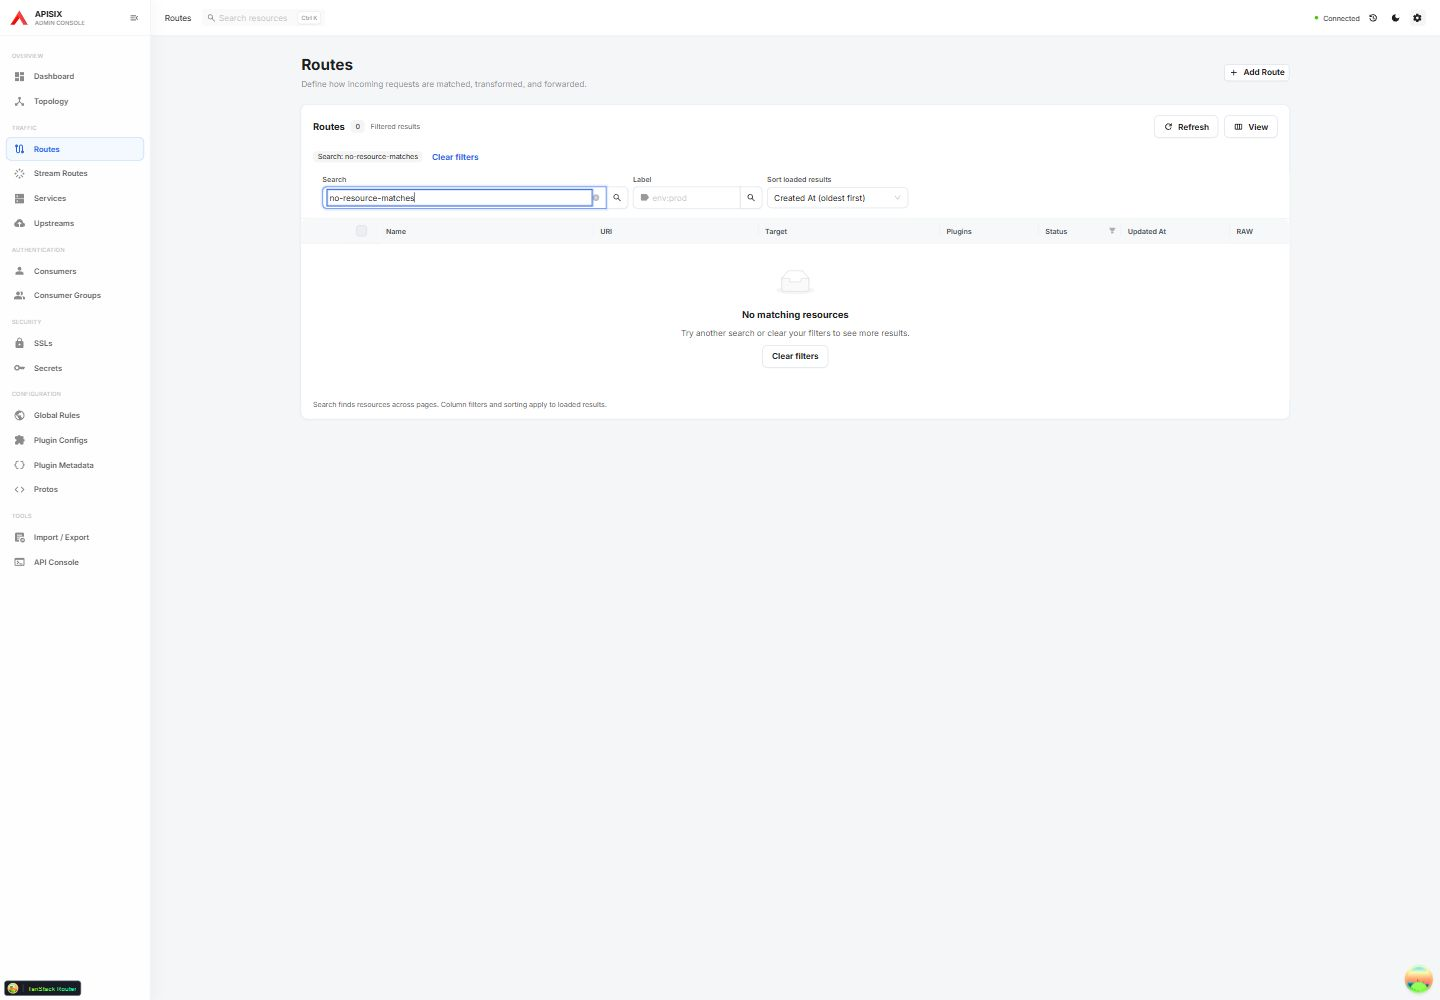
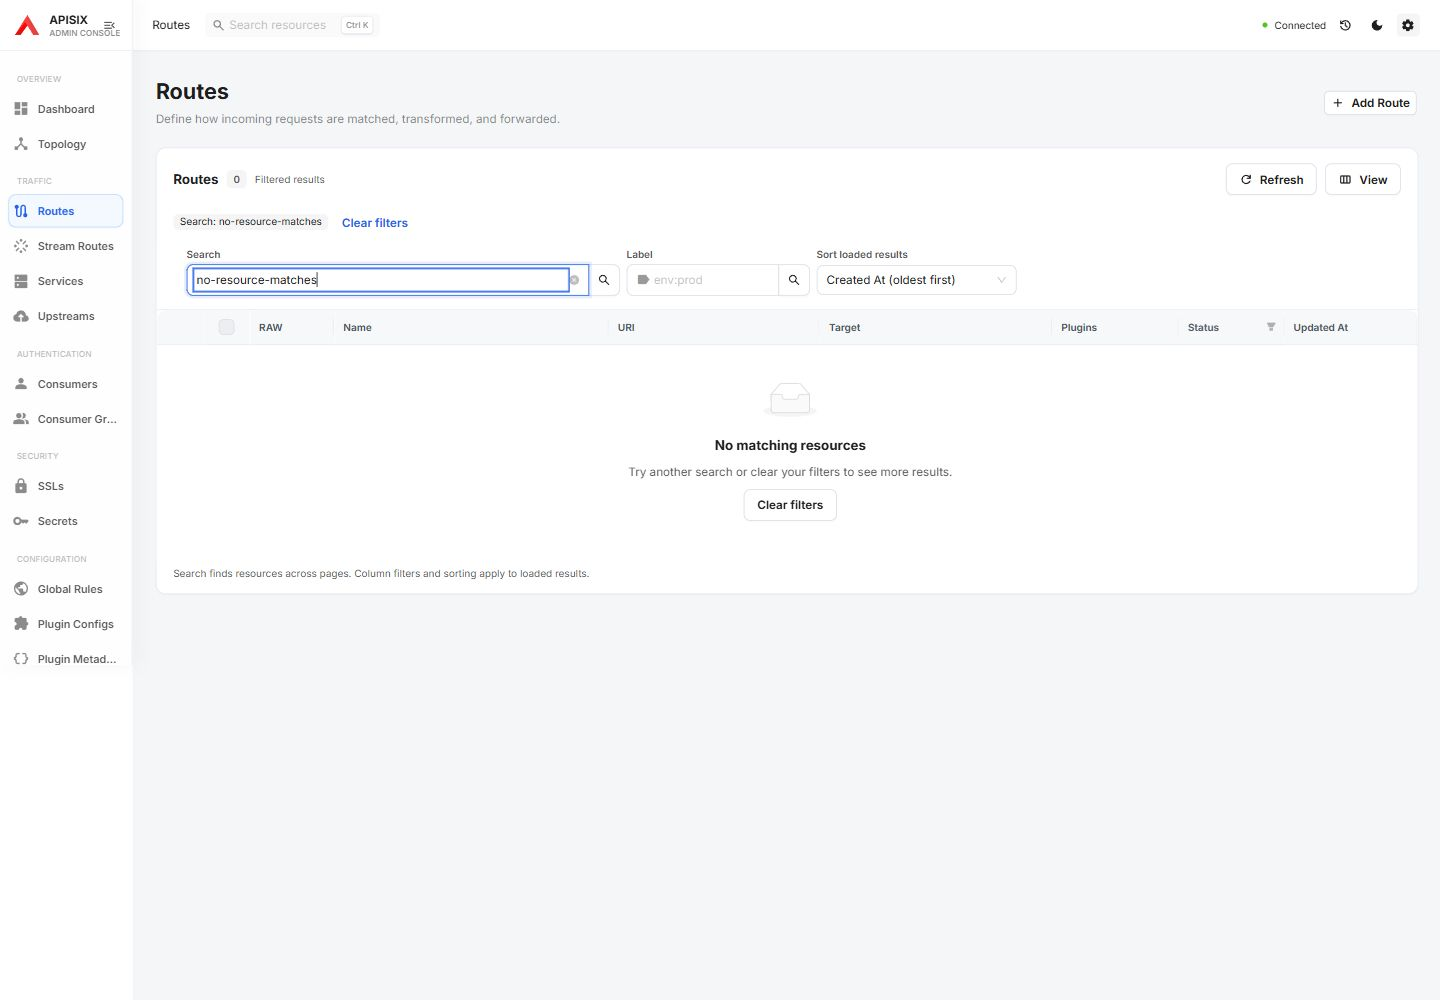
fix: prioritize RAW access and center table expand controls

diff --git a/e2e/tests/table-experience.spec.ts b/e2e/tests/table-experience.spec.ts
@@ -98,7 +98,7 @@ for (const [path, title, primary] of [
   ['plugin_configs', 'Plugin Configs', 'Name'],
   ['protos', 'Protos', 'Name'],
 ]) {
-  test(`${title} uses the shared table controls and puts identity before RAW`, async ({
+  test(`${title} uses the shared table controls and keeps RAW immediately before resource identity`, async ({
     page,
   }) => {
     await mockAdmin(page);
@@ -114,8 +114,8 @@ for (const [path, title, primary] of [
       table.getByRole('button', { name: 'View', exact: true }),
     ).toBeVisible();
     const headers = await table.getByRole('columnheader').allTextContents();
-    expect(headers.indexOf(primary)).toBeLessThan(headers.indexOf('RAW'));
-    expect(headers.at(-1)).toBe('RAW');
+    expect(headers.indexOf(primary)).toBe(headers.indexOf('RAW') + 1);
+
     await expect(
       table.getByRole('columnheader', { name: 'ID', exact: true }),
     ).toHaveCount(primary === 'Name' || primary === 'Username' ? 0 : 1);
@@ -238,7 +238,9 @@ test('selection has one action region and clears when moving between pages', asy
   await actions.getByRole('button', { name: 'Delete', exact: true }).click();
   const confirmation = page.getByRole('dialog', { name: 'Delete 1 Route(s)' });
   await expect(confirmation).toBeVisible();
-  await confirmation.getByRole('button', { name: 'Cancel', exact: true }).click();
+  await confirmation
+    .getByRole('button', { name: 'Cancel', exact: true })
+    .click();
   await expect(actions).toBeVisible();
   await page.getByRole('listitem', { name: '2', exact: true }).click();
   await expect(actions).toHaveCount(0);
@@ -307,13 +309,23 @@ test('narrow tables keep controls inside the viewport and allow keyboard horizon
   await page.setViewportSize({ width: 390, height: 844 });
   await mockAdmin(page);
   await page.goto('routes');
+  await expect(page.getByRole('complementary')).toHaveCSS('width', '68px');
   const scroller = page.getByRole('region', { name: /^Routes columns/ });
   await expect(scroller).toHaveAttribute('tabindex', '0');
+  const raw = page
+    .getByRole('row')
+    .filter({ hasText: 'Catalog route 01' })
+    .getByRole('button', { name: 'Raw', exact: true });
+  await expect(raw).toBeInViewport();
+  const rawBefore = await raw.boundingBox();
   await scroller.focus();
   await scroller.press('ArrowRight');
   await expect
     .poll(() => scroller.evaluate((node) => node.scrollLeft))
     .toBeGreaterThan(0);
+  await expect(raw).toBeInViewport();
+  const rawAfter = await raw.boundingBox();
+  expect(rawAfter!.x).toBeCloseTo(rawBefore!.x, 0);
   expect(
     await page.evaluate(
       () => document.documentElement.scrollWidth <= window.innerWidth,
@@ -328,6 +340,32 @@ test('narrow tables keep controls inside the viewport and allow keyboard horizon
   }
   await page.getByRole('button', { name: 'Switch to Dark Mode' }).click();
   await expect(page.locator('html')).toHaveAttribute('data-theme', 'dark');
+});
+
+test('row expansion and the prominent RAW action work without changing selection', async ({
+  page,
+}) => {
+  const { writes } = await mockAdmin(page);
+  await page.goto('routes');
+  const row = page.getByRole('row').filter({ hasText: 'Catalog route 01' });
+  await row.getByRole('button', { name: 'Expand row', exact: true }).click();
+  await expect(
+    row.getByRole('button', { name: 'Collapse row', exact: true }),
+  ).toHaveAttribute('aria-expanded', 'true');
+  await expect(row.getByRole('checkbox')).not.toBeChecked();
+  await row.getByRole('button', { name: 'Collapse row', exact: true }).click();
+  await expect(
+    row.getByRole('button', { name: 'Expand row', exact: true }),
+  ).toHaveAttribute('aria-expanded', 'false');
+  await row.getByRole('button', { name: 'Raw', exact: true }).click();
+  const drawer = page.getByRole('dialog', { name: /Route: Catalog route 01/ });
+  await expect(drawer).toContainText('/routes/table-01');
+  await expect(
+    drawer.getByRole('textbox', { name: 'Editor content' }),
+  ).toBeVisible();
+  await drawer.getByRole('button', { name: 'Close', exact: true }).click();
+  await expect(drawer).toHaveCount(0);
+  expect(writes).toEqual([]);
 });
 
 test('failed search result pages show an error instead of claiming no matches', async ({

diff --git a/src/components/page/ResourceTable.tsx b/src/components/page/ResourceTable.tsx
@@ -140,6 +140,7 @@ export function ResourceTable<T extends ResourceRecord>({
     .map((column) => String(column.key));
   const visibleKeys = view.columns ?? defaultKeys;
   const requiredKeys = [primaryKey, 'raw', 'option'];
+  const hasRawAction = columns.some((column) => column.key === 'raw');
   const total = pagination
     ? (pagination.total ?? dataSource.length)
     : dataSource.length;
@@ -196,12 +197,14 @@ export function ResourceTable<T extends ResourceRecord>({
         hideInTable: !requiredKeys.includes(key) && !visibleKeys.includes(key),
         filteredValue: filters[key] ?? null,
         fixed:
-          key === primaryKey && screens.md
+          key === 'raw' || (key === primaryKey && screens.md)
             ? 'left'
-            : key === 'raw' && screens.md
-              ? 'right'
-              : undefined,
-        width: column.width ?? (key === primaryKey ? 240 : 170),
+            : undefined,
+        className: key === 'raw' ? 'resource-table-raw' : column.className,
+        width:
+          key === 'raw'
+            ? 80
+            : (column.width ?? (key === primaryKey ? 240 : 170)),
       };
       if (key === primaryKey) {
         next.width = primaryKey === 'name' ? 260 : 220;
@@ -251,7 +254,7 @@ export function ResourceTable<T extends ResourceRecord>({
     })
     .sort((a, b) => {
       const order = (key: unknown) =>
-        key === primaryKey ? -1 : key === 'raw' || key === 'option' ? 1 : 0;
+        key === 'raw' ? -2 : key === primaryKey ? -1 : key === 'option' ? 1 : 0;
       return order(a.key) - order(b.key);
     });
 
@@ -417,12 +420,19 @@ export function ResourceTable<T extends ResourceRecord>({
         size={view.density}
         options={false}
         headerTitle={false}
+        expandable={
+          props.expandable && {
+            ...props.expandable,
+            columnWidth: 44,
+            fixed: hasRawAction || screens.md ? 'left' : undefined,
+          }
+        }
         tableAlertRender={false}
         tableAlertOptionRender={false}
         rowSelection={
           rowSelection && {
             ...rowSelection,
-            fixed: Boolean(screens.md),
+            fixed: hasRawAction || Boolean(screens.md),
             columnWidth: 44,
             getCheckboxProps: (record) => ({
               ...rowSelection.getCheckboxProps?.(record),

diff --git a/e2e/tests/resource-create.refresh.spec.ts b/e2e/tests/resource-create.refresh.spec.ts
@@ -74,7 +74,7 @@ for (const entry of cases) {
     await expect(page.getByRole('combobox', { name: entry.label, exact: true }).locator('xpath=ancestor::div[contains(@class,"ant-select")][1]')).toContainText('fresh');
     await page.getByRole('menuitem', { name: entry.menu, exact: true }).click();
     await page.getByRole('dialog', { name: 'Leave without saving?' }).getByRole('button', { name: 'Discard and leave' }).click();
-    await expect(page.getByRole('cell', { name: 'created-resource', exact: true })).toBeVisible();
+    await expect(page.getByRole('link', { name: 'created-resource', exact: true })).toBeVisible();
     await page.screenshot({ path: test.info().outputPath(`${entry.resource}-fresh-list.png`), animations: 'disabled' });
     // Renaming a verified resource must also update an already warmed selector.
     await page.getByRole('link', { name: 'created-resource', exact: true }).click();
@@ -89,7 +89,7 @@ for (const entry of cases) {
     await expect(page.locator('.ant-select-dropdown:visible .ant-select-item-option').filter({ hasText: 'updated-resource' })).toBeVisible();
     await page.keyboard.press('Escape');
     await page.getByRole('menuitem', { name: entry.menu, exact: true }).click();
-    await expect(page.getByRole('cell', { name: 'updated-resource', exact: true })).toBeVisible();
+    await expect(page.getByRole('link', { name: 'updated-resource', exact: true })).toBeVisible();
   });
 }
 
@@ -105,7 +105,7 @@ for (const resource of ['protos', 'credentials']) {
     });
     await page.goto(resource === 'protos' ? 'protos' : 'consumers/detail/parity/credentials');
     await expect(page.getByRole('columnheader', { name: 'Name', exact: true })).toBeVisible();
-    await expect(page.getByRole('cell', { name: 'Readable resource name', exact: true })).toBeVisible();
+    await expect(page.getByRole('link', { name: 'Readable resource name', exact: true })).toBeVisible();
     await page.screenshot({ path: test.info().outputPath(`${resource}-named-list.png`), animations: 'disabled' });
   });
 }

diff --git a/src/components/page/ResourceTable.css b/src/components/page/ResourceTable.css
@@ -93,8 +93,25 @@
   border-bottom: 1px solid var(--ant-color-border-secondary);
 }
 .resource-table .ant-table-row-expand-icon {
-  width: 22px;
-  height: 22px;
+  width: 24px;
+  height: 24px;
+  border-radius: 6px;
+}
+.resource-table .ant-table-row-expand-icon::before {
+  top: calc(50% - 0.5px);
+  left: 5px;
+  right: 5px;
+}
+.resource-table .ant-table-row-expand-icon::after {
+  left: calc(50% - 0.5px);
+  top: 5px;
+  bottom: 5px;
+}
+.resource-table-raw .ant-btn {
+  color: var(--ant-color-primary);
+  background: var(--ant-color-primary-bg);
+  border-color: var(--ant-color-primary-border);
+  font-weight: 600;
 }
 .resource-table-identity {
   display: flex;

diff --git a/docs/design/table-experience/README.md b/docs/design/table-experience/README.md
@@ -2,14 +2,13 @@
 
 Review date: 2026-10-03. Baseline: `83f1fdba` (APISIX 3.19 support).
 Screenshots use synthetic catalog, checkout, and identity resources on the local
-APISIX 3.19 gateway. They contain no production data. Selection and empty-search
-captures were taken in development; the final light/dark captures use the production build.
+APISIX 3.19 gateway. They contain no production data. Final captures use the production build.
 
 ## Observed problems and changes
 
 | Priority | Observed issue | Implemented response |
 | --- | --- | --- |
-| High | RAW and truncated IDs precede the resource name, making rows harder to scan. | Put identity first, combine names with copyable IDs, and move RAW to the right. Retain identity while scrolling on desktop. |
+| High | Separate truncated IDs make resource names harder to scan, while RAW is the primary editing action. | Keep a highlighted RAW button on the left, combine names with copyable IDs, and retain RAW during horizontal scrolling, including narrow screens. |
 | High | Selection produces both an alert and a floating action bar. | Use one action region inside the table, with the existing confirmations and API behavior. Clear selection on page/filter changes. |
 | High | Placeholder-only searches and icon-only view controls obscure purpose. | Add persistent field labels, explicit search submission, and named Refresh/View buttons. |
 | Medium | Sorting can be controlled in two places with different state. | Keep one labeled sort control and disclose its loaded-result scope. |
@@ -18,11 +17,11 @@ captures were taken in development; the final light/dark captures use the produc
 
 ## Before and after
 
-Before: actions and metadata compete with identity.
+Before: separate ID metadata competes with identity and view controls lack labels.
 
 ![Previous Routes table](02-before-routes.jpg)
 
-After: identity, search, view controls, operational fields, and pagination have distinct positions.
+After: frequently used RAW actions stay on the left, followed by identity; search, view controls, operational fields, and pagination have distinct positions.
 
 ![Updated Routes table](09-after-routes.jpg)
 
@@ -46,10 +45,14 @@ Narrow screen (390 px): controls remain within the viewport and the table scroll
 
 ![Narrow dark table](11-after-narrow-dark.jpg)
 
+Expansion uses a centered 24 px button. The plus/minus strokes remain centered in both states.
+
+![Expanded row with RAW access](12-after-expanded.jpg)
+
 ## Verified flow
 
 1. **Find a resource — healthy in tested scenarios.** Search across pages, apply a label, navigate back, and clear filters. An unavailable search page displays an error.
-2. **Scan and customize — healthy in tested scenarios.** All 11 main resource lists share identity-first columns. Column choices and spacing survive reload; Reset view restores defaults; Escape returns focus to View.
+2. **Scan and customize — healthy in tested scenarios.** All 11 main resource lists put RAW directly before identity. Column choices and spacing survive reload; Reset view restores defaults; Escape returns focus to View.
 3. **Act on a selection — healthy in tested scenarios.** One action region shows the selection. Delete still requires confirmation; cancel sends no write. Pagination clears selection.
 4. **Continue on a narrow screen — healthy in tested scenarios.** No document overflow at 390 px; a labeled, focusable table region supports horizontal keyboard scrolling. Light and dark states were visually inspected.
 
@@ -60,8 +63,8 @@ existing card presentation.
 ## Validation and boundaries
 
 - `pnpm lint`, `pnpm exec tsc -b --pretty false`, and `pnpm build`.
-- 20 focused Playwright scenarios cover shared controls, persistence, filtering,
-  error/empty states, pagination, selection cancellation, and narrow-screen behavior.
+- 21 focused Playwright scenarios cover shared controls, persistence, filtering,
+  error/empty states, pagination, selection cancellation, row expansion, RAW access, and narrow-screen behavior.
 - Existing resource-list, credential CRUD, GraphQL decoration, and helper tests
   were exercised against the production UI with a local APISIX 3.19 gateway.
 - RAW row actions were manually checked to open the matching resource endpoint.
@@ -70,3 +73,5 @@ existing card presentation.
   while column-filter chips identify restrictions on loaded rows.
 - This is a scoped UI/behavior review, not a complete accessibility certification
   or a production traffic/performance assessment.
+
+
